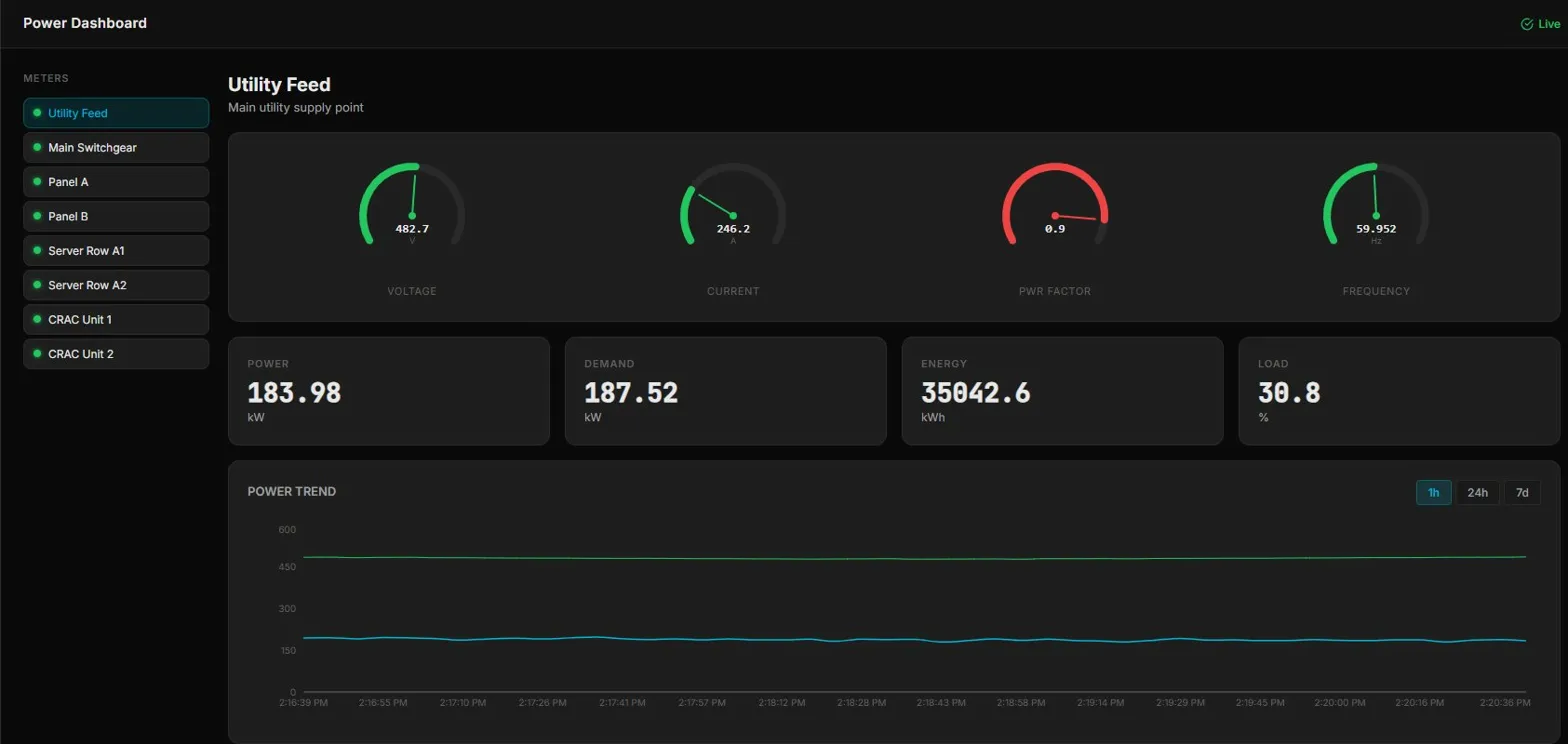
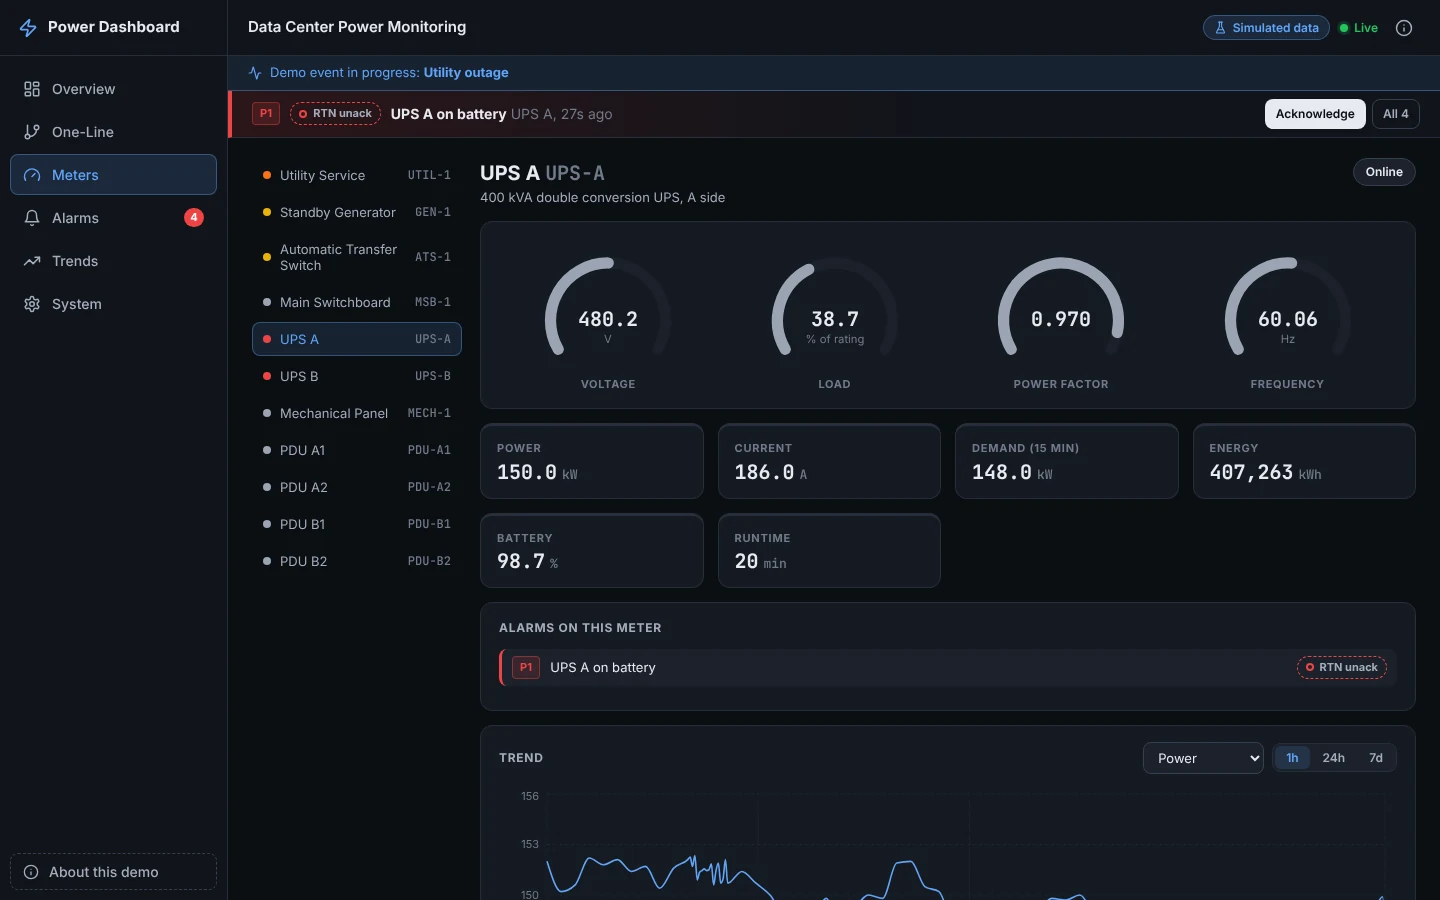
Update README and screenshots for 1.1.0

diff --git a/README.md b/README.md
@@ -1,105 +1,146 @@
-# Power Dashboard - Electrical Power Monitoring System
+# Power Dashboard
 
-A full-stack, real-time Electrical Power Monitoring System (EPMS) dashboard designed for industrial data center and facility power distribution environments. The system continuously polls simulated power meters, stores time-series readings, evaluates alarm conditions against ISA 18.2 thresholds, and delivers live data to a web-based SCADA-style interface via WebSocket.
+Real time electrical power monitoring for a data center, with alarm management that follows ANSI/ISA-18.2.
 
-**Live Demo:** [https://power-dashboard-vd3w.onrender.com](https://power-dashboard-vd3w.onrender.com)
+### Live demo: [power-dashboard-vd3w.onrender.com](https://power-dashboard-vd3w.onrender.com)
 
-> **Note:** The free tier backend may take 30-50 seconds to wake up on first load.
+The demo runs on **simulated data**: no real facility, customer, or equipment is connected. It is hosted on a free tier that sleeps when idle, so the first visit after a quiet period shows a short "waking up" screen for about 30 to 60 seconds. After that everything updates live every 2 seconds.
+
+![Dashboard during a simulated utility outage](screenshots/dashboard.webp)
+
+---
+
+## What it shows
+
+- **A simulated 2N data center.** Utility service and a standby generator feed an automatic transfer switch, then the main switchboard. Two UPS systems (A and B side) each feed two PDUs, and the cooling plant runs from its own panel. Values roll up from the IT load through transformer and UPS losses, so the numbers add up the way a real site does.
+- **Equipment that behaves like equipment.** During a utility outage the UPS systems carry the IT load on battery, the generator cranks and comes up to speed, the ATS transfers, the frequency dips when the block load lands, cooling restarts, and the ATS retransfers once utility power has been stable.
+- **ISA 18.2 alarm handling** with acknowledge, shelve, return to normal, designed suppression, an alarm journal, and a master alarm database. See [Alarm management](#alarm-management-isa-182).
+- **A live one-line diagram** that follows the power path, showing which conductors are carrying load, energized, or dead.
+- **Meter detail and trends** for every device, with 1 hour, 24 hour, and 7 day history and CSV export.
+- **Try it yourself.** Open *About this demo* and trigger a utility outage, voltage sag, PDU overload, or power factor drop. Events also happen on their own every few minutes.
+
+---
+
+## Alarm management (ISA 18.2)
+
+Every alarm point runs the ISA 18.2 alarm state model:
+
+| State | Meaning | Shown as |
+|---|---|---|
+| Normal | Process normal, nothing to acknowledge | Not in the alarm list |
+| Unacknowledged | Process abnormal, no operator has acknowledged it | Solid priority color, flashing |
+| Acknowledged | Process still abnormal, operator is responding | Steady outline |
+| Returned to normal, unacknowledged | Process recovered before anyone acknowledged | Dashed outline, flashing, still needs an acknowledgement |
+| Shelved | Removed from the list by the operator for a limited time with a logged reason | Shelved tab with a countdown |
+| Suppressed by design | Hidden by a designed rule based on plant state | Suppressed tab with the rule shown |
+
+```
+Normal --condition--> Unacknowledged --acknowledge--> Acknowledged --clears--> Normal
+                      Unacknowledged --clears--> Returned to normal, unack --acknowledge--> Normal
+```
+
+What else is implemented:
+
+- **Rationalized master alarm database.** Each alarm has one cause, a priority, a documented consequence, and an operator response. The full table is on the *Alarm database* tab.
+- **Priorities by consequence and time to respond:** Critical (under 5 min), High (under 15 min), Medium (within the shift), Low (when practical).
+- **Chatter control:** deadbands (hysteresis) on analog alarms and on/off delays counted in scans.
+- **Time limited shelving** (5, 15, or 60 minutes, 60 maximum). When the timer runs out the alarm returns to service and re-annunciates if the condition is still present.
+- **Designed suppression:** the utility low voltage alarm is suppressed while the utility failure alarm is active, generator frequency alarms are suppressed while the generator is not running, and the cooling plant power factor alarm is suppressed while its panel is de-energized. This prevents the nuisance alarms a simple threshold system would raise during an outage.
+- **Alarm journal:** every alarm, acknowledgement, return to normal, shelve, unshelve, and suppression event is recorded with time, value, and operator.
+- **Performance KPIs:** annunciated alarm rate over the last 10 minutes compared with the ISA 18.2 targets (about 1 per 10 minutes acceptable, 2 manageable, 10 or more is a flood), plus counts by priority and state. The demo deliberately runs events faster than a real site, so the rate often shows "Above target".
+
+![Alarm list with an expanded alarm showing consequence and operator response](screenshots/alarms.webp)
 
 ---
 
 ## Screenshots
 
-### Dashboard Overview
-![Dashboard](screenshots/dashboard.webp)
+| One-line diagram during an outage | Alarm journal |
+|---|---|
+| ![One-line diagram](screenshots/one-line.webp) | ![Alarm journal](screenshots/journal.webp) |
+| **Meter detail** | **Trends** |
+| ![Meter detail](screenshots/meters.webp) | ![Trends](screenshots/trending.webp) |
 
-### One-Line Diagram
-![One-Line Diagram](screenshots/one-line.webp)
-
-### Meter Detail
-![Meters](screenshots/meters.webp)
-
-### Alarm Management
-![Alarms](screenshots/alarms.webp)
-
-### Trending
-![Trending](screenshots/trending.webp)
-
-### Settings
-![Settings](screenshots/settings.webp)
+<img src="screenshots/mobile.webp" alt="One-line diagram on a phone" width="300" />
 
 ---
 
-## Demo
+## Simulated equipment
 
-> Start the backend and frontend locally using the instructions below. The dashboard will populate with live simulated data within 5 seconds of startup.
+| ID | Equipment | Rating |
+|---|---|---|
+| UTIL-1 | Utility service, 480 V | 1600 A |
+| GEN-1 | Standby diesel generator | 750 kW |
+| ATS-1 | Automatic transfer switch, open transition | 1600 A |
+| MSB-1 | Main switchboard, 480 V | 1600 A |
+| UPS-A, UPS-B | Double conversion UPS, A and B side | 400 kVA each |
+| PDU-A1, PDU-A2, PDU-B1, PDU-B2 | PDU, 480 to 208/120 V | 150 kVA each |
+| MECH-1 | Mechanical panel (CRAH units, pumps, fans) | 400 A |
+
+Total load is about 450 kW with roughly 290 kW of IT load (PUE around 1.6). IT load follows a gentle daily profile, cooling load follows a simulated outdoor temperature, and every value drifts with slow random walks plus measurement noise.
+
+Demo scenarios:
+
+| Scenario | What happens |
+|---|---|
+| Utility outage | UPS on battery, generator start, ATS transfer, generator frequency dip, cooling restart, retransfer after 30 s of stable utility, generator cooldown |
+| Utility voltage sag | Utility drops to about 85 percent for a few seconds, UPS systems ride through on battery |
+| PDU overload | One PDU ramps past 80 and 90 percent load, which can also push its UPS past the 2N limit, then rebalances |
+| Low power factor | The cooling plant capacitor bank drops out and power factor falls below 0.85 |
 
 ---
 
 ## Architecture
 
-### Backend
-- **FastAPI** serves REST endpoints and a WebSocket broadcast channel.
-- **SQLite** (WAL mode) stores meter readings and alarm records.
-- **Simulator** generates realistic 3-phase power readings using sine-wave load profiles, Gaussian noise, and periodic fault injection (voltage sag, current spike, PF drop, frequency deviation).
-- **Alarm Engine** evaluates every reading against ISA 18.2-aligned thresholds and writes prioritized alarm records to the database.
-- **Collector** runs an async polling loop every 5 seconds, inserting readings and broadcasting to all connected WebSocket clients.
-
-### Frontend
-- **React 18** single-page application built with **Vite**.
-- **Recharts** for trend charts and sparklines.
-- **Lucide React** for iconography.
-- **React Router v6** for client-side navigation.
-- WebSocket hook with automatic reconnection delivers sub-5-second live updates to all views.
-
-### Data Flow
-
 ```
-Simulator
-   |
-   v (every 5s)
-Collector Loop
-   |---> SQLite (readings table)
-   |---> Alarm Engine ---> SQLite (alarms table)
-   |---> WebSocket Broadcast
-              |
-              v
-        React Frontend
-        (readings state)
-              |
-        Dashboard / One-Line / Meters / Alarms / Trending
+  Simulator  or  Modbus TCP meters
+         |
+         v   every 2 s
+   Collector scan loop  ------------>  SQLite (history every 10 s, alarm journal)
+         |
+         +--> Alarm manager (ISA 18.2 state machine)
+         |
+         v
+   WebSocket /ws/live  ------------>  React front end
+   REST /api/*         <------------  (acknowledge, shelve, history, demo events)
 ```
+
+- **Backend:** FastAPI. A single collector owns the scan loop, the latest readings, the alarm manager, and the set of WebSocket clients. On startup in simulation mode it generates 24 hours of history (with past events and simulated operator acknowledgements) in well under a second, so trends and the journal are never empty.
+- **WebSocket feed:** on connect the server sends a `snapshot` (meters, readings, alarms, summary, demo info). After that it pushes `readings` every scan and `alarms` whenever the alarm list changes or an operator acts. Clients can send `{"type": "ping"}` and get a `pong`.
+- **Front end:** React and Vite. The live feed is a single WebSocket with automatic reconnection and a stale connection watchdog. Chart heavy pages are loaded on demand, so the first load is about 72 kB of gzipped JavaScript.
+- **Cold starts:** the static front end never sleeps. While the API wakes up it shows a progress screen and pings `/api/health` (which is also what wakes the server), then switches to the live view as soon as the first snapshot arrives. If the connection drops later, the page keeps the last data, dims it, and shows "Reconnecting".
+
+### Stack
+
+| Layer | Technology |
+|---|---|
+| API and WebSocket | Python 3.13, FastAPI 0.111, Uvicorn |
+| Storage | SQLite (WAL mode) |
+| Field protocol | Modbus TCP via pymodbus (optional) |
+| Front end | React 18, Vite 5, React Router 6 |
+| Charts and icons | Recharts (trend pages), inline SVG, Lucide |
+| Tests | pytest, FastAPI TestClient, Vitest |
+| Hosting | Render (static site plus web service), GitHub Actions CI |
 
 ---
 
-## Tech Stack
+## Run it locally
 
-| Layer       | Technology                        | Version   |
-|-------------|-----------------------------------|-----------|
-| API Server  | FastAPI                           | 0.111.0   |
-| ASGI Runner | Uvicorn (with standard extras)    | 0.29.0    |
-| Database    | SQLite (via stdlib sqlite3)       | built-in  |
-| Frontend    | React                             | 18.3.1    |
-| Build Tool  | Vite                              | 5.2.0     |
-| Charts      | Recharts                          | 2.12.7    |
-| Icons       | Lucide React                      | 0.379.0   |
-| Routing     | React Router DOM                  | 6.23.1    |
+Requirements: Python 3.11 or newer and Node 18 or newer.
 
----
-
-## Installation
-
-### Backend
+**Backend** (terminal 1):
 
 ```bash
 cd backend
+python -m venv .venv
+source .venv/bin/activate        # Windows: .venv\Scripts\activate
 pip install -r requirements.txt
 uvicorn main:app --reload --port 8000
 ```
 
-The API will be available at `http://localhost:8000`. Interactive API docs are at `http://localhost:8000/docs`.
+API docs are at http://localhost:8000/docs.
 
-### Frontend
+**Front end** (terminal 2):
 
 ```bash
 cd frontend
@@ -107,60 +148,82 @@ npm install
 npm run dev
 ```
 
-The dashboard will be available at `http://localhost:5173`.
+Open http://localhost:5173. The Vite dev server proxies `/api` and `/ws` to the backend, so no configuration is needed.
 
----
+**Tests:**
 
-## Environment Variables
-
-### Frontend
-
-| Variable | Description | Default |
-|----------|-------------|---------|
-| `VITE_API_URL` | Base URL of the backend API (used for HTTP requests and WebSocket connections) | `http://localhost:8000` |
-
-Create a `frontend/.env` file (or copy `frontend/.env.example`) and set `VITE_API_URL` to your deployed backend URL before running `npm run build`. For example, when deploying to Render:
-
-```
-VITE_API_URL=https://power-dashboard-api.onrender.com
+```bash
+cd backend && pip install -r requirements-dev.txt && python -m pytest -q
+cd frontend && npm test
 ```
 
-The WebSocket URL is derived automatically from `VITE_API_URL` by replacing `http://` with `ws://` (or `https://` with `wss://`).
-
----
-
-
-## Features
-
-1. **Live WebSocket feed** - All meter readings streamed to the browser with under 5-second latency, with automatic reconnection on disconnect.
-2. **8-meter hierarchy simulation** - Utility Feed, Main Switchgear, two distribution panels (IT and Cooling), and four sub-meters (Server Row A1/A2, CRAC Unit 1/2).
-3. **Realistic simulator** - Sine-wave load profiles, Gaussian noise, gradual drift, and stochastic fault injection producing voltage sags, current spikes, power factor drops, and frequency deviations.
-4. **ISA 18.2 alarm engine** - Four-parameter alarm evaluation (voltage, current, power factor, frequency) with four priority levels (Critical, High, Medium, Low) and full acknowledgement workflow.
-5. **One-line SVG diagram** - Interactive electrical distribution single-line diagram with live status color coding and per-node detail panel.
-6. **Per-meter analog gauges** - Arc gauges for voltage, current, power factor, and frequency with threshold-aware color states.
-7. **Historical trending** - Multi-meter, multi-parameter trend chart with 1h/24h/7d period selection and CSV export.
-8. **Alarm management table** - Active and history tabs with inline acknowledgement and ISA 18.2 priority row styling.
-9. **Automatic data pruning** - Readings older than 7 days are removed hourly; alarm history is retained indefinitely.
+The backend suite covers the simulator (physical consistency, the outage sequence, every scenario), the alarm state machine (every ISA 18.2 transition, deadband, delays, shelving, suppression, KPIs), the WebSocket feed (snapshot, streaming, ping, live alarm updates after operator actions), the REST API, and Modbus decoding. The front end suite covers the feed reducer and URL handling.
 
 ---
 
 ## Configuration
 
-All tunable parameters are in `backend/config.py`:
+Backend settings are environment variables (see `backend/config.py`):
 
-- `POLL_INTERVAL` - Simulator polling rate in seconds (default: 5).
-- `WS_INTERVAL` - WebSocket broadcast interval in seconds (default: 2).
-- `DB_PATH` - SQLite database file path (default: `power_dashboard.db`).
-- `METERS` - Full meter hierarchy definition including nominal voltage, nominal current, CT ratio, and PT ratio.
-- `ALARM_THRESHOLDS` - Per-parameter alarm thresholds expressed as multipliers of nominal values or absolute values for frequency.
+| Variable | Default | Purpose |
+|---|---|---|
+| `DATA_SOURCE` | `simulator` | `simulator` for the demo, `modbus` for real meters |
+| `MODBUS_CONFIG` | `modbus_config.json` | Device and register map when `DATA_SOURCE=modbus` |
+| `POLL_INTERVAL` | `2` | Scan interval in seconds |
+| `HISTORY_INTERVAL` | `10` | Seconds between stored history rows |
+| `RETENTION_DAYS` | `7` | Days of history and journal kept |
+| `BACKFILL_HOURS` | `24` | Simulated history generated at startup |
+| `SIM_EVENT_MIN`, `SIM_EVENT_MAX` | `150`, `360` | Seconds between automatic demo events |
+| `SIM_SEED` | random | Fixed seed for repeatable simulation |
+| `DEMO_EVENTS_ENABLED` | `true` | Allow visitors to trigger events from the UI |
+| `CORS_ORIGINS` | `*` | Comma separated allowed origins |
+| `DB_PATH` | `power_dashboard.db` | SQLite file |
+
+Front end: `VITE_API_URL` is the API base URL used at build time. Leave it empty when the front end and API share an origin or when using the dev proxy.
+
+### Real hardware (Modbus TCP)
+
+```bash
+cd backend
+pip install -r requirements-modbus.txt
+cp modbus_config.example.json modbus_config.json   # edit hosts, unit ids, registers
+DATA_SOURCE=modbus uvicorn main:app --port 8000
+```
+
+Each device entry maps a meter ID to a host, unit ID, and the register for each value (holding, input, coil, or discrete; `float32`, `int16`, `uint16`, `int32`, `uint32`, or `bool`; optional scale and word order). A meter that stops answering is shown as "Comm Fail" and its alarms hold their last state until communication returns. The alarm engine, history, and UI work the same as in the demo.
 
 ---
 
-## Future Enhancements
+## Deployment (Render)
 
-- **Real Modbus polling** - Replace the simulator with `pymodbus` to connect to physical Modbus TCP/RTU meters.
-- **BACnet integration** - Add BACnet/IP support for building automation system interoperability.
-- **Cloud deployment** - Containerize with Docker and deploy to cloud infrastructure with PostgreSQL replacing SQLite.
-- **ML predictive maintenance** - Apply time-series anomaly detection to identify degrading equipment before alarm thresholds are reached.
-- **User authentication** - Role-based access control for operator, engineer, and administrator tiers.
-- **Email/SMS notifications** - Push alarm notifications via SMTP or SMS gateway on critical priority events.
+`render.yaml` is a Render Blueprint with two services that deploy from `main` on every merge:
+
+- **power-dashboard-api**: Python web service in `backend/`, started with `uvicorn main:app --host 0.0.0.0 --port $PORT`, health checked at `/api/health`, running the simulator.
+- **power-dashboard**: static site built from `frontend/` with `npm ci && npm run build`, published from `dist`, with a rewrite to `index.html` so deep links such as `/alarms` work. Set `VITE_API_URL` to the API service's public URL.
+
+Build filters mean a change under `backend/` only redeploys the API, a change under `frontend/` only redeploys the site, and documentation changes redeploy nothing. GitHub Actions runs both test suites and the production build on every pull request and push to `main`.
+
+---
+
+## Project layout
+
+```
+backend/
+  main.py               FastAPI app, REST endpoints, WebSocket
+  collector.py          Scan loop, backfill, broadcast
+  simulator.py          Data center power system model and scenarios
+  alarms.py             ISA 18.2 alarm state machine
+  config.py             Settings, topology, master alarm database
+  database.py           SQLite history and alarm journal
+  modbus_source.py      Modbus TCP polling (optional)
+  tests/
+frontend/
+  src/services/         WebSocket feed, REST client
+  src/pages/            Overview, One-Line, Meters, Alarms, Trends, System
+  src/components/       Wake screen, About panel, alarm banner, badges, charts
+render.yaml             Render Blueprint
+```
+
+## License
+
+MIT, see [LICENSE](LICENSE).
